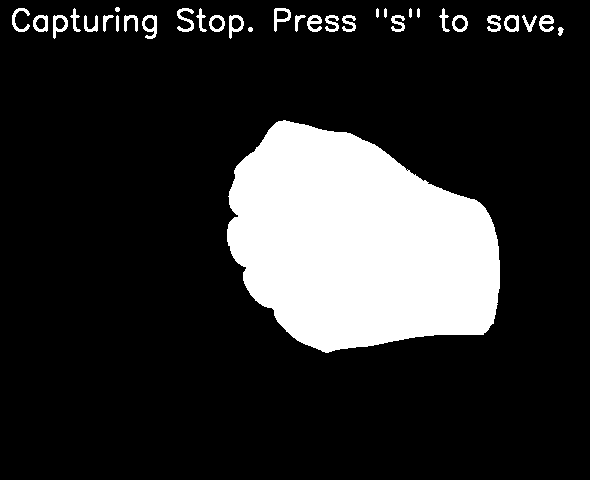
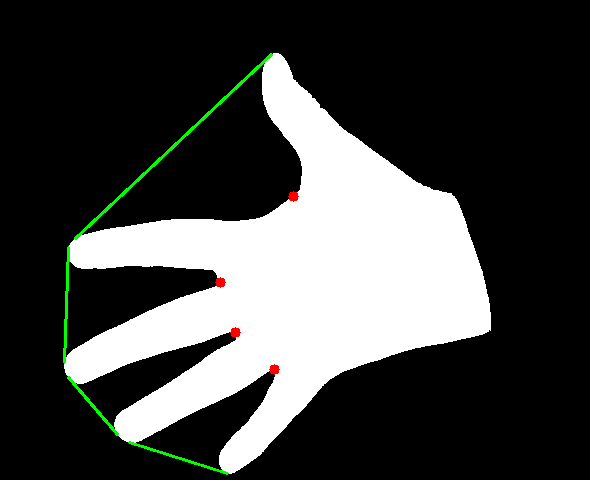
This shit just fucking works
I hvert fald til vores formål med vores gestures

diff --git a/GC/p3-Python-scripts/GestureController_v2.py b/GC/p3-Python-scripts/GestureController_v2.py
@@ -9,13 +9,9 @@ print('Starting application...')
 
 #TODO-  Slet det der brect shit
 
-#TODO - Convexity Defects 
-
 #TODO - TIL KODEGRAFIK - ÆNDR ORIENTATION, både til v1 og v2
 
 #TODO - En måde at gemme på i guess, så man ikke altid behøver tage nye billeder - NOK FUTURE WORK
-
-#TODO - FIKS BINARY VIDEO HURLUMHEJ - Ingen tekst på binary frame, pls
 
 #TODO Testing
 # - Hvor langt kan man gå ud af billedet før den fucker. Alle sider
@@ -41,8 +37,8 @@ contours_refs = []
 defects_gestures = []
 
 # All gestures to be captured
-#gestures = ['Forward', 'Backward', 'ForwardSneak', 'BackwardSneak', 'Interact', 'Stop']
-gestures = ['Forward', 'Backward']
+gestures = ['Forward', 'Backward', 'ForwardSneak', 'BackwardSneak', 'Interact', 'Stop']
+# gestures = ['Forward', 'Backward'] # Test bunch
 
 key = ''
 
@@ -138,7 +134,7 @@ def process_gesture(img):
         contours_refs.append(contoursGesture)
 
         # Getting defects #################### # TODO Få lige samlet nogle af de her defects relaterede ting
-        defectsTotal, defects = getDefects2(contoursGesture[0])
+        defectsTotal, defects = getDefects(contoursGesture[0])
         # Save defects total for the gestures
         defects_gestures.append(defectsTotal)
         print(f'Number of convexity defects: {defectsTotal}')
@@ -242,8 +238,10 @@ def getDefects(contours):
         print('No defects')
         return 0, None
 
+    distanceFilter = 10000
+
     # Distance filtering irrelevant points
-    filter_arr = defects[:, 0, 3] > 5000  # Create a boolean mask where the distance value is greater than 500 #NOTE : betyder for alle, 0 betyder for x-akse, og så det 4. element. So for hvert element i x-aksen, find fjerde element, tjek condition, og ændr værdi til true eller false. Derfor lægges vores filter array på vores defects. God forklaring: https://johnfoster.pge.utexas.edu/numerical-methods-book/ScientificPython_Numpy.html
+    filter_arr = defects[:, 0, 3] > distanceFilter  # Create a boolean mask where the distance value is greater than 500 #NOTE : betyder for alle, 0 betyder for x-akse, og så det 4. element. So for hvert element i x-aksen, find fjerde element, tjek condition, og ændr værdi til true eller false. Derfor lægges vores filter array på vores defects. God forklaring: https://johnfoster.pge.utexas.edu/numerical-methods-book/ScientificPython_Numpy.html
     newDefects = defects[filter_arr]  # Apply the boolean mask to filter the defects
  
     # As defects have locations, we are only interested in the amount
@@ -252,48 +250,6 @@ def getDefects(contours):
         defects_total = 0
     else:
         defects_total = newDefects.shape[0]
-
-    return defects_total, newDefects
-
-def getDefects2(contours):
-    # Check for contours
-    if len(contours) == 0:
-        print('No contours found')
-        return 0, None
-
-    # Ensure the contours are in the correct format
-    contours = np.array(contours, dtype=np.int32)
-
-    # Debugging: Print the shape and dtype of the contours array
-    print(f'Contours shape: {contours.shape}, dtype: {contours.dtype}')
-
-    # Check if the contours array is empty after conversion
-    if contours.size == 0:
-        print('Contours array is empty after conversion')
-        return 0, None
-
-    # Check if the depth of the contours array is correct
-    if contours.dtype != np.int32 and contours.dtype != np.float32:
-        print('Contours array has incorrect depth')
-        return 0, None
-
-    try:
-        hull = cv2.convexHull(contours, returnPoints=False)
-        defects = cv2.convexityDefects(contours, hull)
-    except cv2.error as e:
-        print(f'Error in cv2.convexHull or cv2.convexityDefects: {e}')
-        return 0, None
-
-    # Check for convexity defects
-    if defects is None:
-        print('No defects')
-        return 0, None
-
-    # Distance filtering irrelevant points
-    filter_arr = defects[:, 0, 3] > 5000  # Create a boolean mask where the distance value is greater than 5000
-    newDefects = defects[filter_arr]  # Apply the boolean mask to filter the defects
-
-    defects_total = newDefects.shape[0] if newDefects is not None else 0
 
     return defects_total, newDefects
 
@@ -403,16 +359,6 @@ def full_close_application():
         except Exception as e:
             print(f"Error deleting the file {filename}: {e}")
 
-# KEY PRESS HANDLING ####################################################################
-#def key_press_detection():
-    global running, key_pressed
-    while running:
-        key = cv2.waitKey(1) & 0xFF  # Check for key press every 1 millisecond
-        if key != 255:  # If a key is pressed
-            key_pressed = key
-            if key == ord('q'):
-                close_application()
-
 # STATES ###################################################################################
 
 def state_capture_gestures(raw_frame, binary_frame):
@@ -470,15 +416,15 @@ def state_match_gestures(raw_frame, binary_frame):
         return 'match_gestures'
 
     # Getting defects
-    defectsLive, _ = getDefects2(contoursLive[0])
+    defectsTotalLive, defectsLive = getDefects(contoursLive[0])
 
     # Checking for contours
-    if defectsLive is None:
+    if defectsTotalLive is None:
         frame = displayText(frame, 'No defects found in live feed')
         cv2.imshow('Live Feed', frame)  # Updates 'Live Feed' window
         return 'match_gestures'
 
-    best_match_index, best_match_value = findBestMatch(contours_refs, contoursLive, defectsLive)
+    best_match_index, best_match_value = findBestMatch(contours_refs, contoursLive, defectsTotalLive)
 
     # Display the match accuracy on the frame
     displayMatchAccuracy(frame, round(best_match_value, 2))
@@ -540,14 +486,13 @@ def state_match_gestures(raw_frame, binary_frame):
     frame = displayText(frame, f'Matched Gesture: {gesture_name}')
 
     # Tester defects og tegner dem på live billede
-    binary_frame = drawDefects(binary_frame, contoursLive, defectsLive)
+    binary_frame = drawDefects(binary_frame, contoursLive[0], defectsLive)
 
     # Displaying the feeds
     cv2.imshow('Live Feed', frame)  # Updates 'Live Feed' window
     cv2.imshow('Binary Feed', binary_frame)  # Updates 'Binary Feed' window
 
     return 'match_gestures'  # Remain in the current state
-
 
 # State dictionary
 states = {
